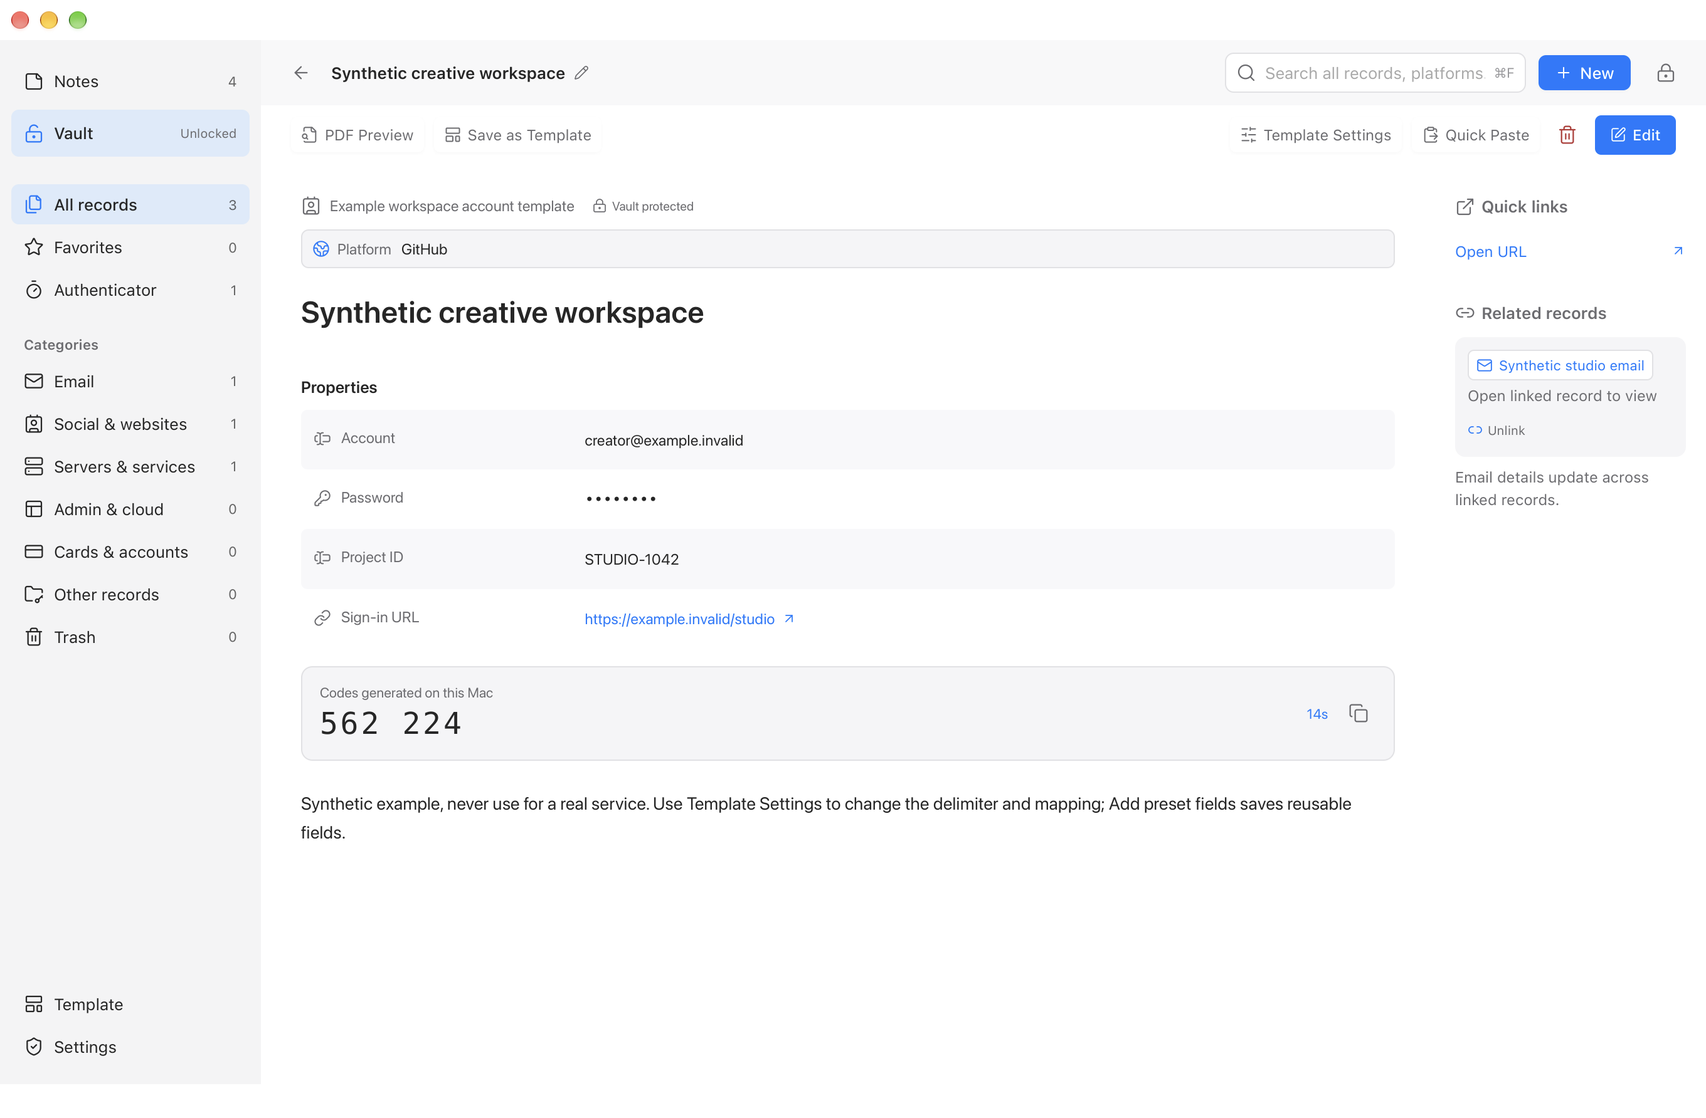
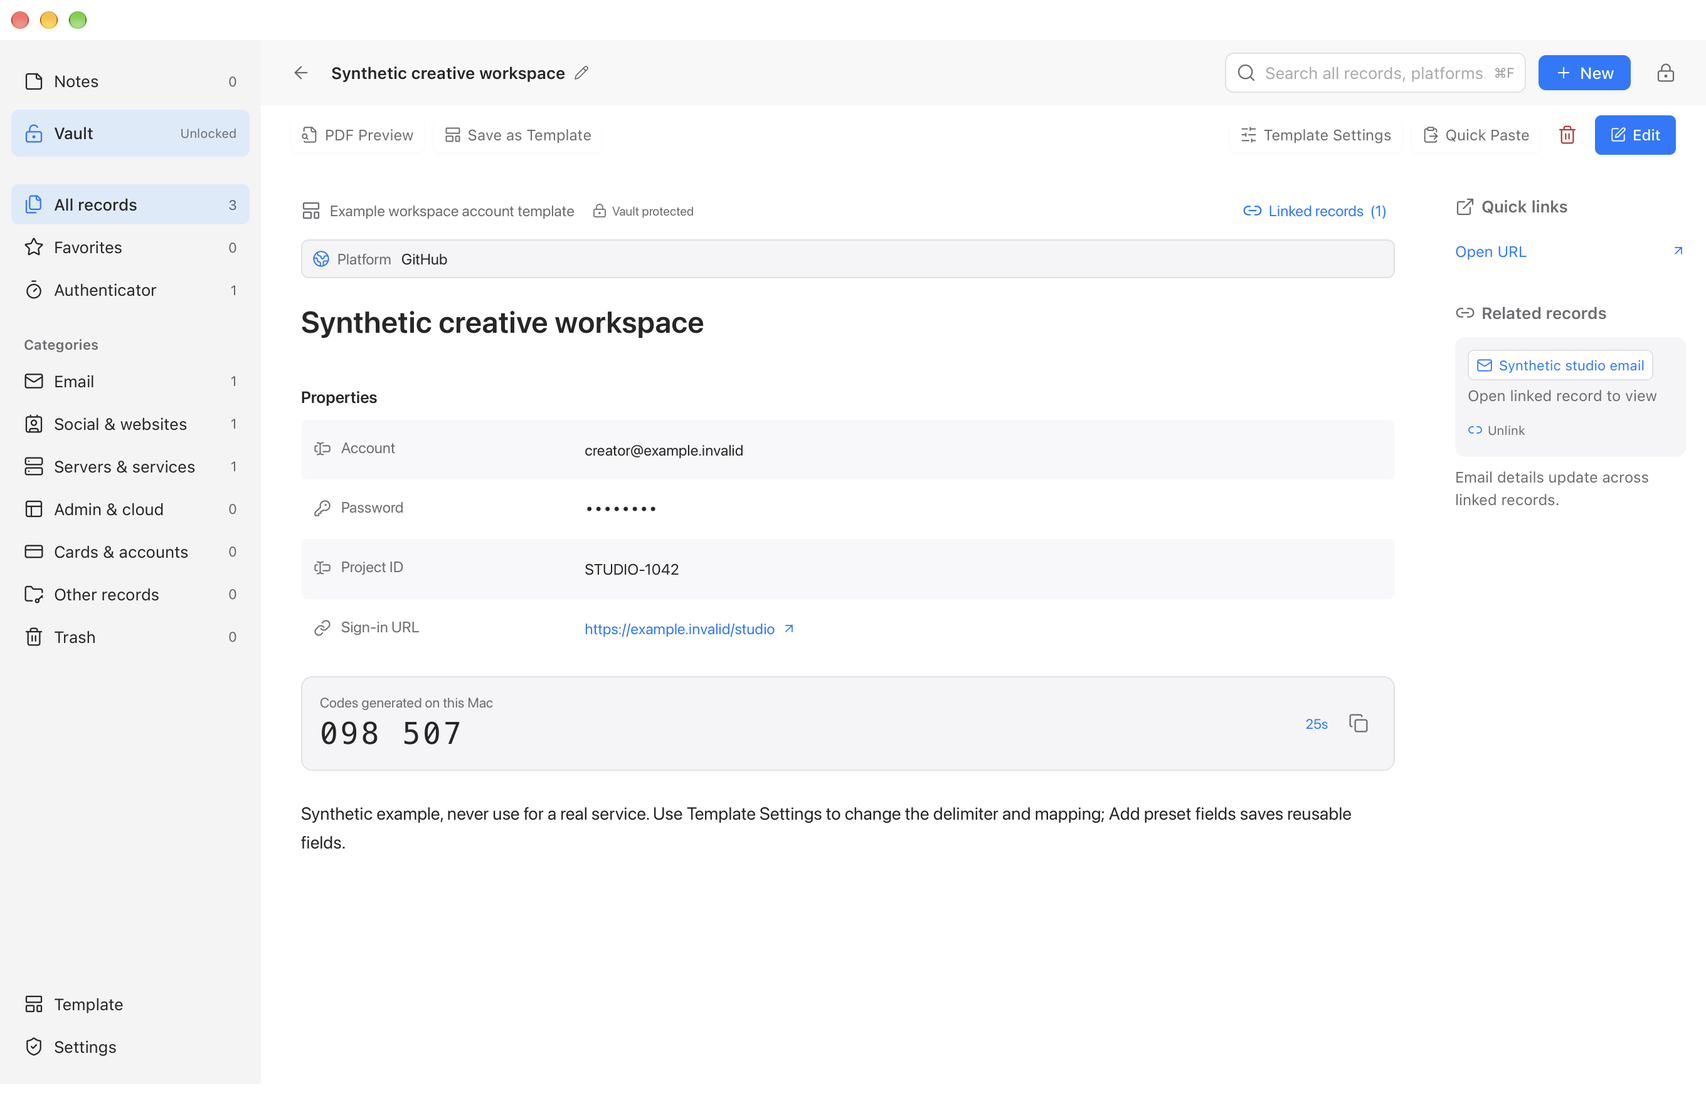
Restore direct record linking and safe link editing

diff --git a/Source/Web/experience.js b/Source/Web/experience.js
@@ -1,7 +1,7 @@
-let customPlatforms={},platformDraft=null,platformReturn=null,contextRecordID=null,pendingTrashPurge=null;
+let customPlatforms={},platformDraft=null,platformReturn=null,contextRecordID=null,pendingTrashPurge=null,relationDraft=null;
 function allPlatforms(){return [...platformCatalog.filter(p=>p.id!=='custom'),...Object.values(customPlatforms),platformCatalog.find(p=>p.id==='custom')];}
 function closeRecordMenu(){root.querySelector('.mj-record-menu')?.remove();contextRecordID=null;}
-function clearExperience(){customPlatforms={};platformDraft=null;platformReturn=null;pendingTrashPurge=null;closeRecordMenu();}
+function clearExperience(){customPlatforms={};platformDraft=null;platformReturn=null;pendingTrashPurge=null;relationDraft=null;closeRecordMenu();}
 function platformLogo(r){
  const p=platformFor(r),upload=safePlatformLogo(p?.logo);
  if(upload)return `<span class="mj-platform-logo"><img src="${upload}" alt="" draggable="false"></span>`;
@@ -56,21 +56,46 @@ function codeCardHeading(r,label=''){
  const account=listAccountOf(r),field=r.fields.find(f=>f.value===account),display=account&&account!=='—'?visibleValue(account,!!field?.secret):r.name;
  return `<button class="mj-code-identity" data-open="${escape(r.id)}">${platformLogo(r)}<span><strong class="mj-user-content">${escape(display)}</strong><small class="mj-user-content">${escape(r.name+((label||platformFor(r)?.name)?ui('（',' (')+(label||platformFor(r)?.name)+ui('）',')'):''))}</small></span>${icon('chevron-right')}</button>`;
 }
-function relationCandidates(current,query=''){
+function relationCandidates(current,query='',matchedIDs=new Set()){
  const text=query.trim().toLocaleLowerCase();
- return records.filter(r=>r.id!==current.id&&(!isProtected(r)||vaultUnlocked)&&(!text||recordSearchParts(r).join(' ').toLocaleLowerCase().includes(text)))
+ return records.filter(r=>r.id!==current.id&&(!isProtected(r)||vaultUnlocked)&&(!text||matchedIDs.has(r.id)||recordSearchParts(r).join(' ').toLocaleLowerCase().includes(text)))
   .sort((a,b)=>Number(current.refs.includes(b.id))-Number(current.refs.includes(a.id)));
 }
 function renderRelationResults(query=''){
  const current=selected(),list=$('#mj-relation-results');if(!current||!list)return;
- const matches=relationCandidates(current,query);
- list.innerHTML=matches.map(r=>`<label class="mj-relation-option">${platformLogo(r)}<span><strong class="mj-user-content">${escape(recordDisplayName(r))}</strong><small class="mj-user-content">${escape([platformFor(r)?.name||tr(type(r).name),visibleValue(listAccountOf(r),!!r.fields.find(f=>f.value===listAccountOf(r))?.secret)].filter(value=>value&&value!=='—').join(ui('，',', ')))}</small></span><input type="checkbox" data-relation="${escape(r.id)}" aria-label="${escape(ui('关联 '+r.name,'Link '+r.name))}" ${current.refs.includes(r.id)?'checked':''}></label>`).join('')||`<div class="mj-empty">${ui('没有找到匹配记录','No matching records')}</div>`;
+ const matches=relationCandidates(current,query,relationDraft?.search?.query===query?relationDraft.search.ids:new Set());
+ list.innerHTML=matches.map(r=>`<label class="mj-relation-option">${platformLogo(r)}<span><strong class="mj-user-content">${escape(recordDisplayName(r))}</strong><small class="mj-user-content">${escape([platformFor(r)?.name||tr(type(r).name),visibleValue(listAccountOf(r),fieldIsSecret(listAccountField(r)||{}))].filter(value=>value&&value!=='—').join(ui('，',', ')))}</small></span><input type="checkbox" data-relation-choice="${escape(r.id)}" aria-label="${escape(ui('关联 '+recordDisplayName(r),'Link '+recordDisplayName(r)))}" ${relationDraft?.refs.has(r.id)?'checked':''}></label>`).join('')||`<div class="mj-empty">${ui('没有找到匹配记录','No matching records')}</div>`;
  icons();
+ const status=$('#mj-relation-status'),search=relationDraft?.search;if(status)status.textContent=search?.pending?ui('正在本机搜索…','Searching locally…'):search?.error?ui('搜索失败，请重新输入关键词。','Search failed. Enter your query again.'):search?.truncated?ui('最多显示 100 条密码库匹配，请缩小关键词。','Showing up to 100 vault matches. Refine your query.'):'';
+}
+function searchRelationRecords(query){
+ const draft=relationDraft;if(!draft)return;clearTimeout(draft.search?.timer);
+ const search={query,ids:new Set(),pending:!!(query.trim()&&nativeInfo.recordProtocol&&vaultUnlocked&&records.some(r=>r._sealed)),error:false,truncated:false};draft.search=search;renderRelationResults(query);
+ if(!search.pending)return;
+ const current=()=>relationDraft===draft&&draft.search===search&&draft.epoch===privacyEpoch&&vaultUnlocked&&state.modal==='relations'&&selected()?.id===draft.id;
+ search.timer=setTimeout(async()=>{
+  try{
+   if(!current())return;const reply=await nativeCall('searchRecords',{query:query.trim(),session:nativeInfo.session});if(!current())return;
+   if(!Array.isArray(reply.ids)||reply.ids.length>100||reply.ids.some(id=>typeof id!=='string'))throw Error('Invalid search response');
+   search.ids=new Set(reply.ids);search.truncated=!!reply.truncated;
+  }catch{if(current())search.error=true;}
+  finally{if(current()){search.pending=false;renderRelationResults(query);}}
+ },180);
 }
 function showRelations(){
- const current=selected();if(!current||isProtected(current)&&!vaultUnlocked)return;state.modal='relations';
- modal(ui('关联其他记录','Link records'),ui('选择要关联的资料，之后可直接查看原记录。','Choose records to link so you can open their original details.'),`<label class="mj-relation-search">${icon('search')}<input type="search" class="mj-field-input" data-relation-search aria-label="${ui('搜索关联记录','Search records to link')}" placeholder="${ui('搜索名称、账号或平台','Search by name, account or platform')}"></label><div id="mj-relation-results" class="mj-relation-results"></div>`,`<button class="mj-primary" data-action="finish-relations">${tr('完成')}</button>`);
+ const current=selected();if(!current||current._sealed||templateDesign||isProtected(current)&&!vaultUnlocked)return;state.modal='relations';
+ relationDraft={id:current.id,epoch:privacyEpoch,refs:new Set(current.refs)};
+ modal(ui('关联其他记录','Link records'),ui('选择已有邮箱或账号。关联只引用原记录，不会复制密码；取消不会更改当前关联。','Choose existing email or account records. Links reference the originals without duplicating passwords. Cancel leaves links unchanged.'),`<label class="mj-relation-search">${icon('search')}<input type="search" class="mj-field-input" data-relation-search aria-label="${ui('搜索关联记录','Search records to link')}" placeholder="${ui('搜索名称、账号或平台','Search by name, account or platform')}"></label><p id="mj-relation-status" class="mj-settings-note" role="status"></p><div id="mj-relation-results" class="mj-relation-results"></div>`,`<button class="mj-button" data-action="close-modal">${tr('取消')}</button><button class="mj-primary" data-action="finish-relations">${ui('应用关联','Apply links')}</button>`);
  renderRelationResults();
+}
+function updateRecordRelations(current,refs){
+ if(!current||current!==selected()||current._sealed||templateDesign||isProtected(current)&&!vaultUnlocked)return false;
+ const next=[...new Set(refs)].filter(id=>id!==current.id);
+ if(next.length===current.refs.length&&next.every(id=>current.refs.includes(id)))return false;
+ snapshotEditor();current.refs=next;
+ // Manual-save users need the normal Save action after editing links in Read mode.
+ if(!autoSaveEnabled())docMode='edit';
+ return true;
 }
 function renderCodes(){
  const all=filtered().map(r=>nativeInfo.recordProtocol&&isProtected(r)?sealedSummary(r):r),seconds=30-Math.floor(Date.now()/1000)%30,size=tableCapacity($('#mj-workspace').clientHeight);
@@ -88,6 +113,10 @@ function polishExperience(){
  $$('.mj-note-card').forEach(card=>{const r=record(card.dataset.open),preview=card.querySelector('p');if(r&&preview)preview.textContent=r.summary||richPlainText(r.blocks.find(b=>b.text)?.text||'')||tr('空白便签');});
  closeRecordMenu();
  updateFieldCopyButtons();
+ if(state.view==='document'&&selected()&&!templateDesign){
+  const current=selected(),heading=$('.mj-document-kind');
+  if(heading&&!heading.querySelector('[data-action="relations"]'))heading.insertAdjacentHTML('beforeend',`<button class="mj-text-button mj-record-relations" data-action="relations" aria-haspopup="dialog">${icon('link-2')}${ui('关联记录','Linked records')}${current.refs.length?` <span>(${current.refs.length})</span>`:''}</button>`);
+ }
  if(state.view==='document'&&selected()&&isEditing()){
   const section=$('.mj-doc-section h2');if(section&&!section.querySelector('[data-exp="extra-fields"]'))section.insertAdjacentHTML('beforeend',`<button class="mj-text-button" data-exp="extra-fields">${ui('添加预设字段…','Add preset fields…')}</button>`);
  }
@@ -163,6 +192,12 @@ window.addEventListener('keydown',event=>{
  if(['ArrowDown','ArrowUp','Home','End'].includes(event.key)){event.preventDefault();event.stopImmediatePropagation();const buttons=[...menu.querySelectorAll('button')],index=buttons.indexOf(document.activeElement);buttons[event.key==='Home'?0:event.key==='End'?buttons.length-1:(index+(event.key==='ArrowDown'?1:buttons.length-1))%buttons.length]?.focus();}
 },true);
 window.addEventListener('click',async event=>{
+ if(event.target.closest('[data-action="finish-relations"]')){
+  event.preventDefault();event.stopImmediatePropagation();const draft=relationDraft,current=selected();
+  if(!draft||draft.epoch!==privacyEpoch||draft.id!==current?.id)return;
+  const refs=[...draft.refs].filter(id=>current.refs.includes(id)||relationCandidates(current).some(r=>r.id===id));
+  const changed=updateRecordRelations(current,refs);closeModal();render();if(changed)remember();return;
+ }
  const command=event.target.closest('[data-record-menu]');
  if(command){event.preventDefault();event.stopImmediatePropagation();const r=record(contextRecordID)||trashedRecords.find(item=>item.id===contextRecordID),action=command.dataset.recordMenu;closeRecordMenu();if(!r||isProtected(r)&&!vaultUnlocked)return;
   if(action==='restore')restoreRecord(r.id);
@@ -199,8 +234,9 @@ window.addEventListener('click',async event=>{
  }catch(error){toast(action==='format-json'?ui('不是有效的 JSON，原内容已保留。','Invalid JSON. Original content preserved.'):String(error.message||error));}
 },true);
 function editPlatformDraft(draft){editPlatform(draft.id,draft);}
-root.addEventListener('input',event=>{const key=event.target.dataset.platformDraft;if(key&&platformDraft)platformDraft[key]=event.target.value;if(event.target.matches('[data-relation-search]'))renderRelationResults(event.target.value);if(event.target.matches('[data-field]'))updateFieldCopyButtons();});
+root.addEventListener('input',event=>{const key=event.target.dataset.platformDraft;if(key&&platformDraft)platformDraft[key]=event.target.value;if(event.target.matches('[data-relation-search]'))searchRelationRecords(event.target.value);if(event.target.matches('[data-field]'))updateFieldCopyButtons();});
 root.addEventListener('change',event=>{
+ if(event.target.matches('[data-relation-choice]')){const draft=relationDraft;if(!draft||draft.epoch!==privacyEpoch||draft.id!==selected()?.id)return;const id=event.target.dataset.relationChoice;if(!relationCandidates(selected()).some(r=>r.id===id))return;if(event.target.checked)draft.refs.add(id);else draft.refs.delete(id);}
  if(event.target.matches('[data-platform-draft]')&&platformDraft)platformDraft[event.target.dataset.platformDraft]=event.target.value;
  if(event.target.matches('[data-exp-page]')){state.page=Math.max(0,Number(event.target.value)-1);render();}
 });

diff --git a/Source/Tests/AppEditorTests.js b/Source/Tests/AppEditorTests.js
@@ -128,6 +128,32 @@ $('[data-layout-position="center"]').click();check('center positioning leaves bl
  check('association navigation retains back history',state.history.includes(detailA.id));
  $('[data-action="back"]').click();await waitFor(()=>state.view==='document'&&state.selected===detailA.id);
  check('back navigation lazily reloads the prior record',record(detailB.id)._sealed&&window.__commands.filter(item=>item.command==='openRecord'&&item.payload.id===detailA.id).length===2);
+ for(const language of ['zh','en'])for(const mode of ['view','edit']){
+  locale=language;docMode=mode;layoutInspectorOpen=false;render();const entry=$('.mj-document-kind [data-action="relations"]');
+  check('link management stays visible without the layout sidebar: '+language+' '+mode,!!entry&&entry.getBoundingClientRect().width>50&&getComputedStyle(entry).visibility==='visible'&&entry.textContent.includes(language==='zh'?'关联记录':'Linked records'));
+  entry.click();check('the visible link entry opens the picker: '+language+' '+mode,!!$(`[data-relation-choice="${detailB.id}"]`)&&!$(`[data-relation-choice="${detailA.id}"]`));$('[data-action="close-modal"]').click();
+ }
+ locale='zh';docMode='view';layoutInspectorOpen=true;render();const linksOpenCount=window.__commands.filter(item=>item.command==='openRecord').length;
+ $('.mj-document-kind [data-action="relations"]').click();$(`[data-relation-choice="${detailB.id}"]`).click();
+ check('picking links does not mutate the record before Apply',selected().refs.includes(detailB.id));
+ const relationSearch=$('[data-relation-search]');relationSearch.value='no such synthetic record';relationSearch.dispatchEvent(new InputEvent('input',{bubbles:true}));relationSearch.value='';relationSearch.dispatchEvent(new InputEvent('input',{bubbles:true}));
+ check('pending selections survive filtering',!$(`[data-relation-choice="${detailB.id}"]`).checked);$('[data-action="close-modal"]').click();
+ check('cancel discards pending links and clears dialog state',selected().refs.includes(detailB.id)&&relationDraft===null);
+ $('.mj-document-kind [data-action="relations"]').click();window.__searchIDs=[detailB.id];const accountQuery=$('[data-relation-search]');accountQuery.value='lazy-b@example.invalid';accountQuery.dispatchEvent(new InputEvent('input',{bubbles:true}));await waitFor(()=>!relationDraft.search.pending);
+ check('account search finds sealed candidates through native ID matching',!!$(`[data-relation-choice="${detailB.id}"]`)&&record(detailB.id)._sealed&&window.__commands.some(item=>item.command==='searchRecords'&&item.payload.query==='lazy-b@example.invalid'));
+ accountQuery.value='stale synthetic query';accountQuery.dispatchEvent(new InputEvent('input',{bubbles:true}));$('[data-action="close-modal"]').click();window.__searchIDs=[];await new Promise(resolve=>setTimeout(resolve,220));check('closing the link picker cancels its queued search',relationDraft===null&&!window.__commands.some(item=>item.command==='searchRecords'&&item.payload.query==='stale synthetic query'));
+ $('.mj-document-kind [data-action="relations"]').click();$(`[data-relation-choice="${detailB.id}"]`).click();$('[data-action="finish-relations"]').click();await persist();
+ check('applying an unlink persists only the reference change',!selected().refs.length&&!window.__sealedRecords[detailA.id].refs.length&&window.__sealedRecords[detailB.id].fields.some(field=>field.value==='Lazy-secret-B'));
+ check('the link picker never decrypts candidate records',record(detailB.id)._sealed&&window.__commands.filter(item=>item.command==='openRecord').length===linksOpenCount);
+ await openSealedRecord(detailB.id);await openSealedRecord(detailA.id);
+ check('unlink survives leaving and reopening the protected record',!selected().refs.length&&!!$('.mj-document-kind [data-action="relations"]'));
+ nativeInfo.settings.autoSave=false;clearManualState();clearEditorHistory();render();$('.mj-document-kind [data-action="relations"]').click();$(`[data-relation-choice="${detailB.id}"]`).click();$('[data-action="finish-relations"]').click();
+ check('adding a first link in reading mode exposes manual Save',isEditing()&&manualDocumentDirty()&&!!$('[data-document-save]')&&selected().refs.includes(detailB.id));await persist();
+ check('background persistence does not commit manual link edits',!window.__sealedRecords[detailA.id].refs.length);
+ undoEditor();check('link edits can be undone',!selected().refs.length);redoEditor();check('link edits can be redone',selected().refs.includes(detailB.id));
+ await persist({documentSave:true});check('manual Save commits linked IDs without copying credentials',window.__sealedRecords[detailA.id].refs.includes(detailB.id)&&!manualDocumentDirty()&&!JSON.stringify(selected()).includes('Lazy-secret-B'));
+ $(`[data-refine="unlink"][data-id="${detailB.id}"]`).click();check('the existing unlink shortcut participates in undo',!selected().refs.length);undoEditor();check('undo restores a link removed by the shortcut',selected().refs.includes(detailB.id));
+ nativeInfo.settings.autoSave=true;clearManualState();await persist();
  acceptNative({exists:true,passwordless:true,unlocked:true,session:'renewed-webkit-ticket',recordProtocol:1,settings:lazyInfo.settings,profile:lazyInfo.profile});
  check('reauthentication adopts a new ticket and removes the old detail lease',nativeInfo.session==='renewed-webkit-ticket'&&state.view==='table'&&records.filter(isProtected).every(item=>item._sealed));
  state.view='table';render();if(redactionPending)await redactionPending;

diff --git a/Source/Web/macos.js b/Source/Web/macos.js
@@ -34,6 +34,7 @@ function closeModal(cancelPending=false){
  if(typeof cancelManualPrompt==='function')cancelManualPrompt();
  const restorePDF=typeof clearPDFPreview==='function'?clearPDFPreview():null;
  templateFieldDraft=null;
+ clearTimeout(relationDraft?.search?.timer);relationDraft=null;
  const overlay=$('#mj-overlay');entryDraft=null;entryPreview=null;builder=null;if(overlay.hidden)return;
  if(cancelPending&&nativeBusy){cancelInlineAuthentication();nativeCall('cancelAuth').then(info=>{if(info?.locked&&vaultUnlocked)purgePrivate();}).catch(()=>{});}
  modalRevision++;state.modal='';overlay.hidden=true;overlay.replaceChildren();delete overlay.dataset.presenting;

diff --git a/Source/Web/experience.css b/Source/Web/experience.css
@@ -138,4 +138,5 @@
 #kernpad-root.mj-v5 .mj-relation-option strong{font-weight:500;line-height:20px}
 #kernpad-root.mj-v5 .mj-relation-option small{font-size:11px;color:var(--mj-muted);line-height:17px}
 #kernpad-root.mj-v5 .mj-relation-option input{accent-color:var(--mj-accent);flex-shrink:0}
+#kernpad-root.mj-v5 .mj-document-kind .mj-record-relations{margin-left:auto;flex-shrink:0;display:inline-flex;align-items:center;gap:5px;white-space:nowrap;font:inherit;padding:4px 6px}
 @media(prefers-reduced-motion:reduce){#kernpad-root.mj-v5 .mj-settings-content input[type=checkbox],#kernpad-root.mj-v5 .mj-settings-content input[type=checkbox]:before{transition:none}}

diff --git a/Source/Web/refinements.js b/Source/Web/refinements.js
@@ -208,7 +208,7 @@ function confirmRecordTrash(id){
 }
 function confirmUnlink(sourceId,targetId){
  const source=record(sourceId),target=record(targetId);if(!source||!target||isProtected(source)&&!vaultUnlocked)return;
- source.refs=source.refs.filter(id=>id!==targetId);render();remember();toast(tr('关联已解除'));
+ if(!updateRecordRelations(source,source.refs.filter(id=>id!==targetId)))return;render();remember();toast(tr('关联已解除'));
 }
 function platformPicker(r){
  const current=platformFor(r)?.id||'none';

diff --git a/README.en.md b/README.en.md
@@ -51,7 +51,7 @@ A server record can contain its login credentials, console links, deployment ste
 
 - **Fields you define:** edit names, types, required status and secrecy, or add a project ID, environment or other business field. Built-in templates cover 20 record types, including email, servers, databases, SSH, APIs, cards and software licenses.
 - **Platforms and useful links:** define a platform name, URL and local logo, then add shortcuts to sign-in, billing or administration pages within a record.
-- **Connected records:** link email or other accounts and follow those links to their details. Quick Paste can create or reuse linked email records; conflicting credentials or ambiguous addresses stop the write.
+- **Connected records:** choose **Linked records** at the top of a record to search for and connect email or other accounts. The entry is available when reading or editing; Cancel leaves existing links unchanged. Quick Paste can create or reuse linked email records; conflicting credentials or ambiguous addresses stop the write.
 - **Verification codes beside credentials:** view and copy current TOTP codes from a record or the unlocked list. Supported parameters are a Base32 seed, SHA-1, six digits and a 30-second period.
 - **A useful list view:** read the main account and public URL, or click a masked password to copy it without opening the record. Clipboard content is cleared after 30 seconds if it has not been replaced; this cannot retract content already read by another app.
 - **Search within defined boundaries:** find records by name, platform and fields. Unlocked body search matches records in the native host without a persistent plaintext body index; passwords and verification-code seeds are excluded.

diff --git a/docs/guide.en.md b/docs/guide.en.md
@@ -131,6 +131,8 @@ Store accounts, passwords, email, servers, API credentials, payment-card details
 
 Fields have names, types, required flags and secrecy settings. Create platforms with a name, URL and local logo, and link other accounts or email records. Renaming a field in one record does not rename it elsewhere.
 
+Choose **Linked records** at the top of a record, search by name, account or platform, select records and choose **Apply links**. This entry is available in both reading and editing modes, including when there are no existing links. Cancel or close leaves links unchanged. Deselecting and applying removes a link without deleting or copying the original record or password. With auto-save off, applying links opens editing mode; choose **Save** to commit the changes. Link edits support undo and redo while editing.
+
 The unlocked list shows the primary account, public URL, password-presence indicator and current codes for the visible page. Secret account identifiers stay masked. Clicking a masked password copies it through native code; the list receives neither the password nor verification seed. TOTP supports Base32, SHA-1, six digits and a 30-second period. SMS codes are not TOTP.
 
 An authenticator in a public note may explicitly use public storage. Its seed is then plain text; confidential authenticators belong in the vault.
